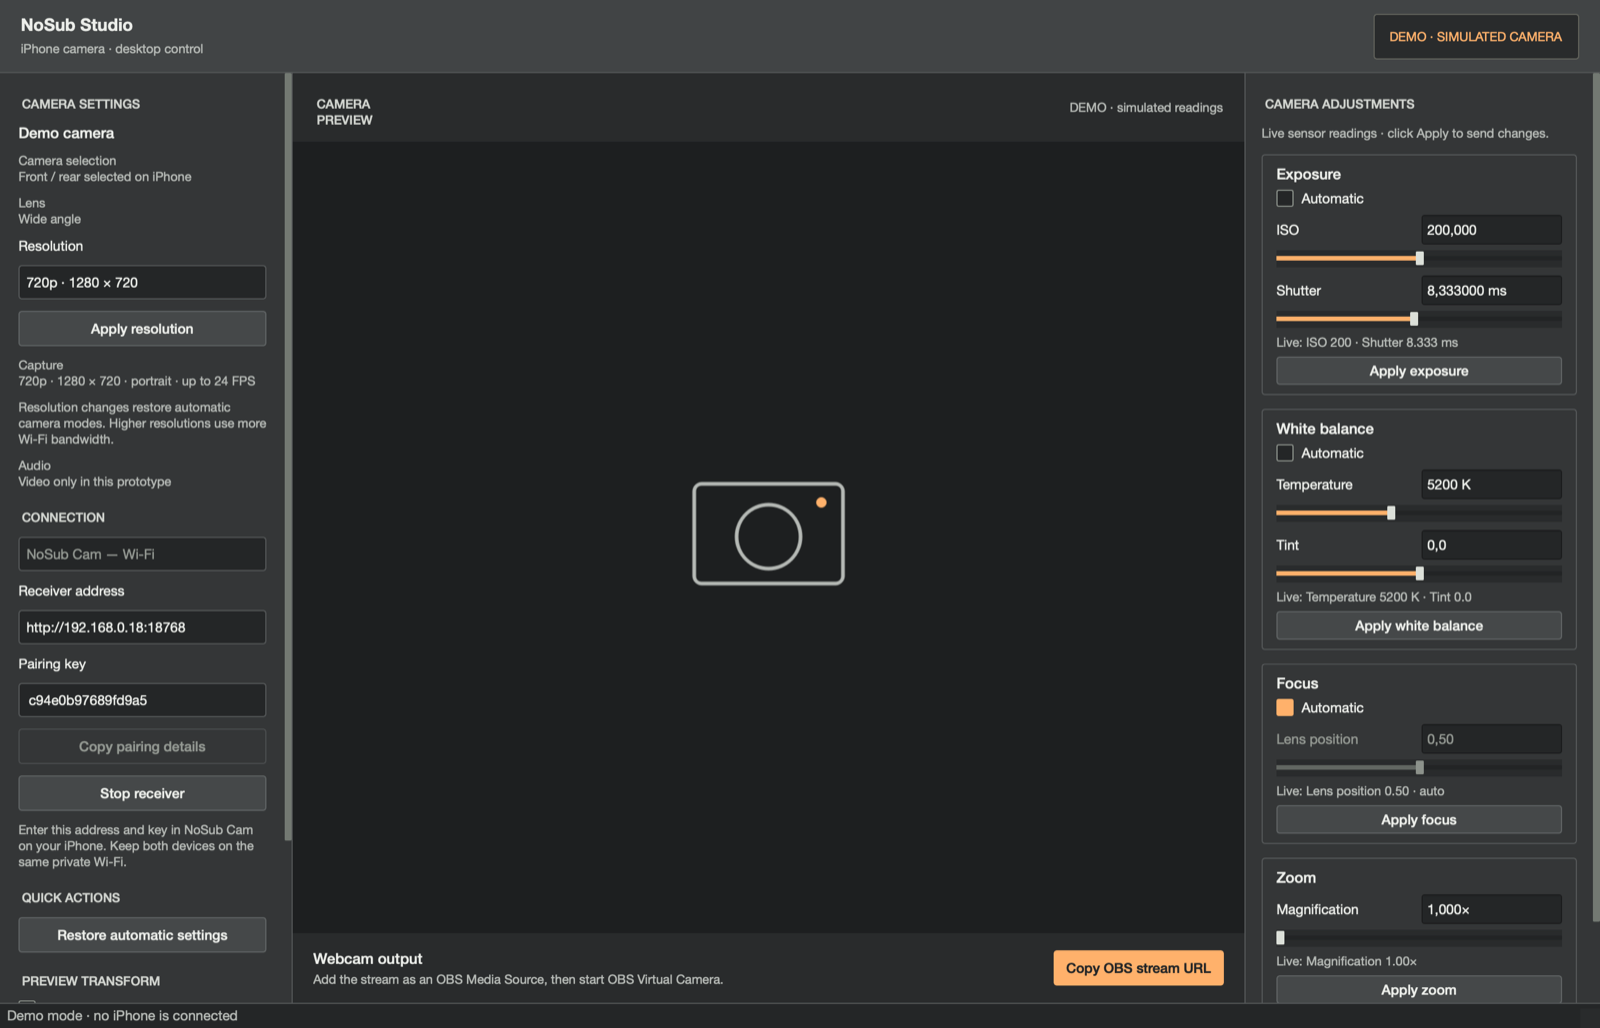
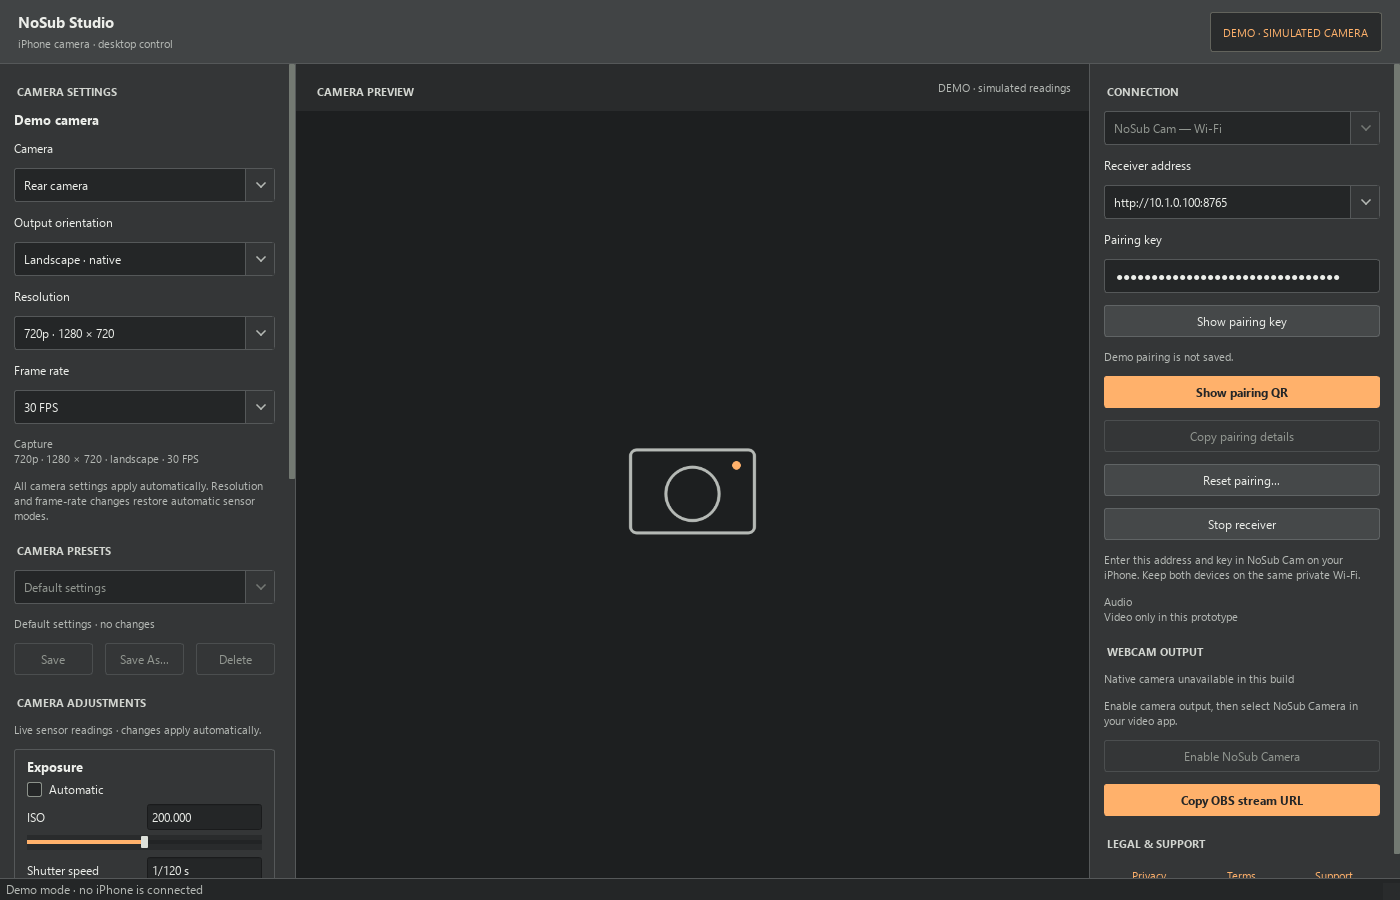
Refresh website screenshots and copy for current camera and pairing UI

diff --git a/site/index.html b/site/index.html
@@ -33,7 +33,7 @@
           <a class="button" href="download/">Get NoSub Cam</a>
           <a class="button secondary" href="#how-it-works">See how it works</a>
         </div>
-        <p class="microcopy">Free companion apps · iOS 26+ · macOS and Windows receiver</p>
+        <p class="microcopy">Free companion apps · iOS 26+ · Apple Silicon Mac · Windows 11 x64</p>
       </div>
       <div class="icon-stage" aria-label="NoSub Cam app icon">
         <img src="assets/app-icon.png" alt="NoSub Cam icon: a signal-shaped N in warm orange and ivory">
@@ -48,8 +48,8 @@
         </div>
         <div class="grid-three">
           <article class="card"><span class="card-number">01</span><h3>Open NoSub Studio</h3><p>Choose Wi-Fi or Direct USB on your Mac or Windows PC and start the local receiver.</p></article>
-          <article class="card"><span class="card-number">02</span><h3>Pair your iPhone</h3><p>Enter the displayed receiver address and temporary pairing key in NoSub Cam.</p></article>
-          <article class="card"><span class="card-number">03</span><h3>Use your picture</h3><p>Preview and adjust the camera, then route the stream through OBS Virtual Camera when another app needs it.</p></article>
+          <article class="card"><span class="card-number">02</span><h3>Scan once. Remember the link.</h3><p>Show the pairing QR in NoSub Studio and scan it on iPhone. Both apps remember the pairing; reset it whenever you choose.</p></article>
+          <article class="card"><span class="card-number">03</span><h3>Use NoSub Camera</h3><p>Install and approve the desktop camera component, enable output, then select NoSub Camera in your video app. OBS is optional.</p></article>
         </div>
       </div>
     </section>
@@ -58,20 +58,21 @@
       <div class="shell">
         <div class="section-heading">
           <div><div class="section-label">02 / Mobile camera</div><h2>Focused before the first frame.</h2></div>
-          <p>The iPhone app keeps setup compact: a 16:9 monitor, one connection panel, a clear status surface, and a single persistent streaming action.</p>
+          <p>Scan the desktop pairing QR, allow Camera and Local Network access, and start streaming. Connection, status, and the streaming action stay together on one screen.</p>
         </div>
         <div class="mobile-showcase">
           <figure class="phone-shot">
-            <img src="assets/ios-preview.png" alt="NoSub Cam iPhone interface showing its camera monitor and local connection controls" width="506" height="1100">
+            <img src="assets/ios-preview.png?v=a8dddfe45ac6" alt="Current NoSub Cam iPhone interface with Wi-Fi and Direct USB tabs, Scan pairing QR, and Start streaming" width="1320" height="2868" loading="lazy" decoding="async">
           </figure>
           <div class="mobile-copy">
             <div class="interface-mark" aria-hidden="true"><span></span><span></span><span></span><span></span></div>
             <h3>One screen, one job.</h3>
-            <p>The idle monitor uses the same camera symbol as NoSub Studio. The flat anthracite surfaces, compact corners, and warm orange controls carry one visual language across both devices.</p>
+            <p>The phone handles capture. NoSub Studio handles the camera controls. Flat anthracite surfaces, compact corners, and warm orange controls keep the same visual language across both devices.</p>
             <dl class="detail-list">
               <div><dt>Connection</dt><dd>Wi-Fi or Direct USB</dd></div>
-              <div><dt>Camera</dt><dd>Front or rear</dd></div>
-              <div><dt>Legal access</dt><dd>Privacy, terms, and support inside the app</dd></div>
+              <div><dt>Pairing</dt><dd>Scan the QR once; saved securely on your devices</dd></div>
+              <div><dt>Camera</dt><dd>Front/rear, orientation, resolution, and frame rate from NoSub Studio</dd></div>
+              <div><dt>Legal access</dt><dd>Privacy, terms, and support links in the app</dd></div>
             </dl>
           </div>
         </div>
@@ -82,11 +83,11 @@
       <div class="shell">
         <div class="section-heading">
           <div><div class="section-label">03 / Studio controls</div><h2>The useful controls stay visible.</h2></div>
-          <p>Camera selection, resolution, pairing, live preview, exposure, focus, white balance, and zoom share one compact desktop workspace.</p>
+          <p>Camera settings and presets on the left. Preview in the center. Pairing and webcam output on the right. Settings apply as you change them.</p>
         </div>
         <figure class="studio-shot">
-          <img src="assets/studio-preview.png" alt="NoSub Studio desktop interface showing connection settings, a large preview, and camera controls" width="1600" height="1029">
-          <figcaption>NoSub Studio demo mode · simulated camera image and sensor values</figcaption>
+          <a href="assets/studio-preview.png?v=416f45f41c4d" aria-label="Open the current NoSub Studio screenshot at full size"><img src="assets/studio-preview.png?v=416f45f41c4d" alt="Current NoSub Studio Windows beta: camera, native landscape, resolution, FPS and presets on the left; preview in the center; QR pairing and webcam output on the right" width="1400" height="900" loading="lazy" decoding="async"></a>
+          <figcaption>NoSub Studio · Windows public beta 1 · Demo mode, no iPhone connected. Preview and sensor values are simulated; camera setup and output are disabled in demo mode. <a href="assets/studio-preview.png?v=416f45f41c4d">View full size →</a></figcaption>
         </figure>
       </div>
     </section>
@@ -99,8 +100,8 @@
         </div>
         <div class="spec-grid">
           <article class="spec"><h3>Wi-Fi or Direct USB</h3><p>Use a trusted local Wi-Fi network or connect through Apple's local USB device service.</p></article>
-          <article class="spec"><h3>Manual camera control</h3><p>Adjust supported ISO, shutter, focus, white balance, zoom, and capture resolution from the desktop.</p></article>
-          <article class="spec"><h3>Front and rear cameras</h3><p>Select the camera on your iPhone and use the supported modes reported by the device.</p></article>
+          <article class="spec"><h3>Camera controls and presets</h3><p>Select front or rear, resolution, and frame rate from the desktop. Adjust supported exposure, focus, white balance, and zoom, and save presets for next time.</p></article>
+          <article class="spec"><h3>Native webcam output</h3><p>Select NoSub Camera in your video app for 1080p30 output, without OBS. Approve the extension on Mac or install the camera component on Windows.</p></article>
           <article class="spec"><h3>No account or tracking</h3><p>No developer-operated backend, advertising network, analytics SDK, or subscription system.</p></article>
         </div>
         <div class="notice"><strong>Security note</strong><p>Wi-Fi mode uses unencrypted HTTP on your local network. Use a private network you trust, protect pairing details, and never expose the receiver port to the public internet.</p></div>

diff --git a/site/support/index.html b/site/support/index.html
@@ -15,8 +15,8 @@
       <article class="document-body">
         <section id="contact"><h2>Contact</h2><div class="contact-box"><strong>Support email</strong><br><a href="mailto:nosubcam-support@ethemkarali.com">nosubcam-support@ethemkarali.com</a><p>Typical response target: 5 business days.</p></div><p>Include your iPhone model, iOS version, computer operating system, connection mode, and exact error message. Do not send pairing keys, private stream URLs, camera footage, or other sensitive content.</p></section>
         <section id="requirements"><h2>Requirements</h2><ul><li>iPhone running iOS 26 or later.</li><li>Apple Silicon Mac running macOS 14.4 or later, or an x64 PC running Windows 11.</li><li>For Wi-Fi: both devices on the same trusted private network.</li><li>For Direct USB: a data-capable cable, unlocked and trusted iPhone, and Apple's USB device service.</li><li>NoSub Camera provides native webcam output without OBS. Approve the camera extension on Mac or install the camera component on Windows.</li></ul></section>
-        <section id="setup"><h2>Quick setup</h2><ol><li>Install and open NoSub Studio on the computer.</li><li>Select Wi-Fi or Direct USB.</li><li>Enter the displayed receiver address and pairing key in NoSub Cam.</li><li>Grant camera and local-network permission when requested.</li><li>Tap <strong>Start streaming</strong> and keep NoSub Cam in the foreground.</li></ol></section>
-        <section id="wifi"><h2>The iPhone cannot connect over Wi-Fi</h2><p>Confirm both devices are on the same private Wi-Fi, Local Network permission is enabled for NoSub Cam, and the computer firewall allows NoSub Studio. Do not use <code>127.0.0.1</code> as the receiver address on the iPhone.</p></section>
+        <section id="setup"><h2>Quick setup</h2><ol><li>Install and open NoSub Studio on the computer.</li><li>Select Wi-Fi or Direct USB.</li><li>Click <strong>Show pairing QR</strong> in NoSub Studio, then <strong>Scan pairing QR</strong> on iPhone. You can also enter the displayed connection details manually. Both devices remember the pairing.</li><li>Grant Camera and Local Network access when prompted, then tap <strong>Start streaming</strong>. Keep NoSub Cam in the foreground while streaming.</li><li>Choose camera, orientation, resolution, frame rate, and supported sensor settings from NoSub Studio. Save a preset to reuse them.</li><li>For video-call apps, install/approve the desktop camera component, click <strong>Enable NoSub Camera</strong>, then select NoSub Camera in the video app. OBS is optional.</li></ol></section>
+        <section id="wifi"><h2>The iPhone cannot connect over Wi-Fi</h2><p>Confirm both devices are on the same private Wi-Fi, Local Network permission is enabled for NoSub Cam, and the computer firewall allows NoSub Studio. If using a VPN, enable its LAN/local-network traffic option or disconnect it for the test. Do not use <code>127.0.0.1</code> as the receiver address on the iPhone. If the computer's local address changes, scan the pairing QR again.</p></section>
         <section id="usb"><h2>Direct USB does not list the iPhone</h2><p>Unlock the iPhone, reconnect a data-capable cable, accept the Trust prompt, and refresh devices in NoSub Studio. Windows requires the Apple Mobile Device driver/service. macOS supplies the required service.</p></section>
         <section id="permissions"><h2>Camera or Local Network permission was denied</h2><p>Open iOS <strong>Settings → Privacy &amp; Security</strong>, then enable NoSub Cam under Camera and Local Network.</p></section>
         <section id="safe"><h2>Safe diagnostics</h2><p>Pairing keys and private stream URLs grant access to the local receiver. Treat them as private. The key is remembered across restarts; use Reset pairing in NoSub Studio to revoke it.</p><div class="notice"><strong>Network</strong><p>Wi-Fi video is not encrypted. Use only a trusted local network and never forward the receiver port from your router.</p></div></section>

diff --git a/docs/WEBSITE.md b/docs/WEBSITE.md
@@ -1,0 +1,29 @@
+# Website screenshots
+
+The static website is deployed from `site/` through GitHub Pages, not Sites.
+Keep the existing dark/orange visual language; screenshots are actual app
+captures, not redrawn mockups.
+
+Updated October 18, 2026:
+
+- `site/assets/ios-preview.png` is an unmodified copy of the current English
+  Fastlane iPhone 17 Pro Max `01WiFiConnection` capture (1320 × 2868). It uses
+  snapshot-mode sample data, with no personal camera image or visible pairing key.
+- `site/assets/studio-preview.png` is an unmodified copy of the packaged Windows
+  public beta 1 demo capture (1400 × 900), from successful CI run `39158635643`,
+  artifact `NoSub-Studio-Windows-x64-installer-test`, `windows-packaged-demo.png`.
+  The capture shows the latest left-hand controls/presets and right-hand pairing/
+  webcam section. No iPhone is connected. Sensor values/image are simulated;
+  the demo deliberately disables native camera setup/output. The page says so.
+
+No new iOS or desktop build is required just to reuse these captures. Do not
+capture the running user's desktop session, expose live QR/pairing credentials,
+or remove the simulated/demo disclosure to imply a real hardware test. For a
+later desktop capture, use the actual packaged demo rather than an old installed
+development app, with disposable settings and no private footage.
+
+Each image URL includes the first 12 characters of its SHA-256 as `?v=...` so
+browsers do not keep the previous screenshot after deployment. Image width and
+height attributes match the PNG header. Update them when replacing assets.
+`node site-tests/content.cjs` checks these facts and the current mobile source;
+`node site-tests/downloads.cjs` checks signed/beta download separation.
